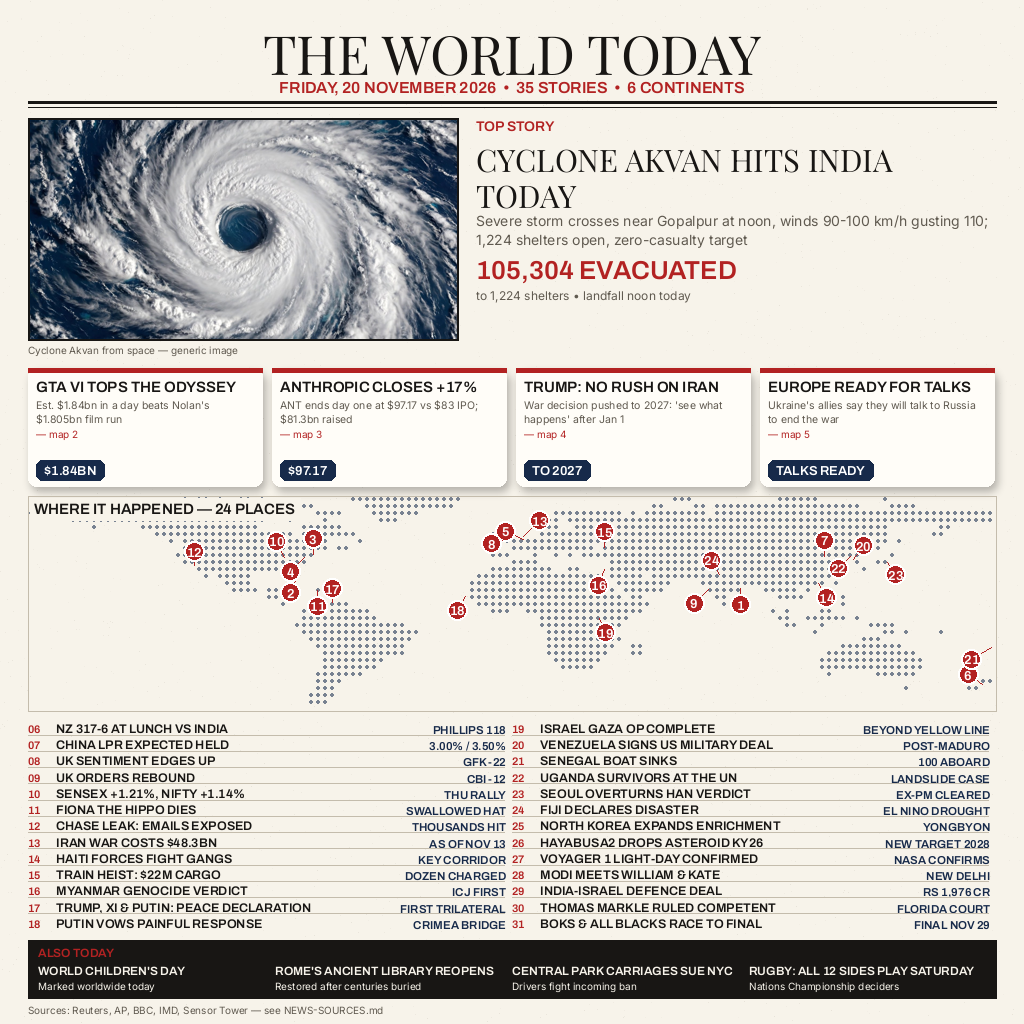
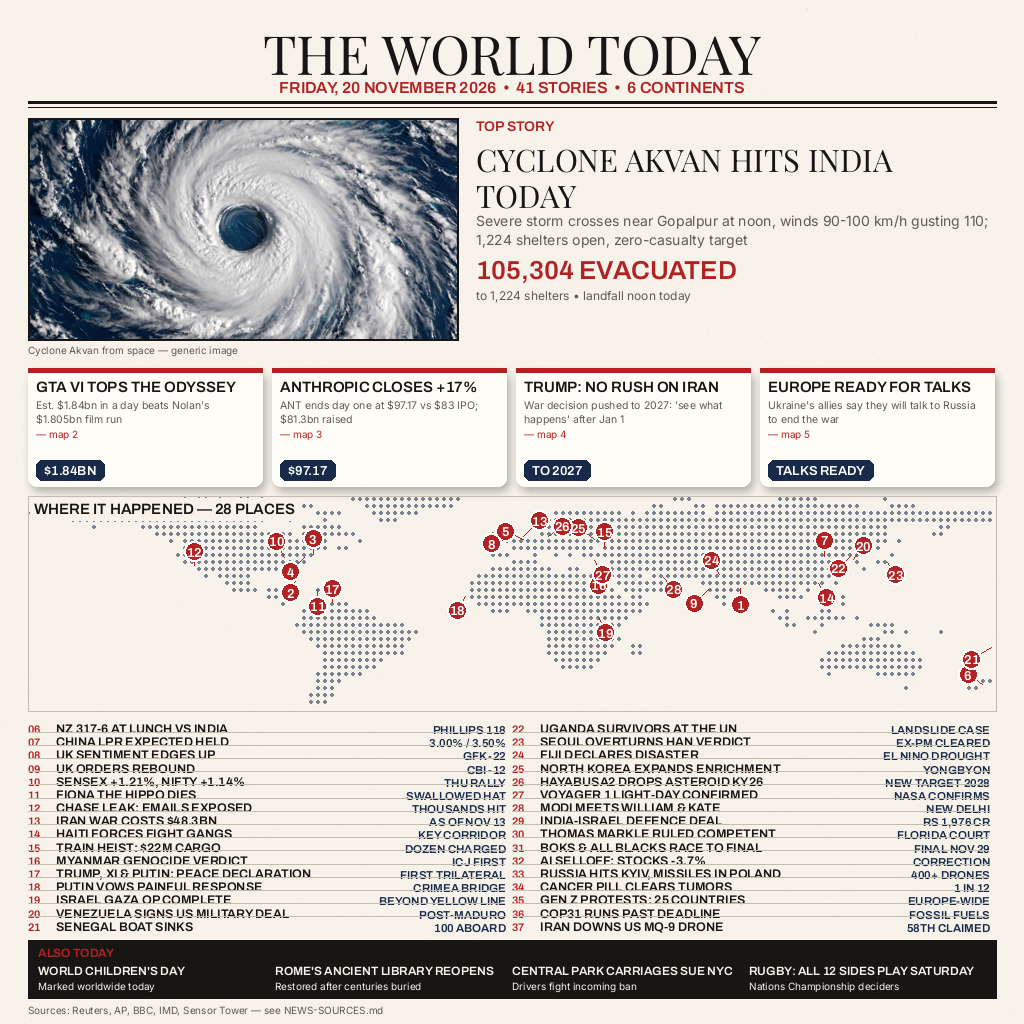
news-image-20261120: refresh 21 Nov, 41 stories (6 fresh: AI selloff, Kyiv/Poland, cancer pill, Gen Z protests, COP31, MQ-9)

diff --git a/stories.py b/stories.py
@@ -13,7 +13,7 @@ Layout of each record:
 """
 
 DATE_LINE = "FRIDAY, 20 NOVEMBER 2026"
-STORY_COUNT = 35
+STORY_COUNT = 41
 CONTINENT_LINE = "6 CONTINENTS"
 
 HERO = (
@@ -83,6 +83,12 @@ LIST_STORIES = [
     ("INDIA-ISRAEL DEFENCE DEAL", "RS 1,976 CR", 24),
     ("THOMAS MARKLE RULED COMPETENT", "FLORIDA COURT", 4),
     ("BOKS & ALL BLACKS RACE TO FINAL", "FINAL NOV 29", 8),
+    ("AI SELLOFF: STOCKS -3.7%", "CORRECTION", 3),
+    ("RUSSIA HITS KYIV, MISSILES IN POLAND", "400+ DRONES", 25),
+    ("CANCER PILL CLEARS TUMORS", "1 IN 12", 8),
+    ("GEN Z PROTESTS: 25 COUNTRIES", "EUROPE-WIDE", 26),
+    ("COP31 RUNS PAST DEADLINE", "FOSSIL FUELS", 27),
+    ("IRAN DOWNS US MQ-9 DRONE", "58TH CLAIMED", 28),
 ]
 
 TICKER = [
@@ -118,4 +124,8 @@ MARKERS = {
     22: (125.8, 39.8, -12, 12),  # Yongbyon — enrichment
     23: (139.7, 35.7, 8, 12),    # Tokyo — Hayabusa2
     24: (77.2, 28.6, -8, -14),   # New Delhi — Modi / defence deal
+    25: (30.5, 50.4, -16, -12),  # Kyiv — Russia strikes / Poland missiles
+    26: (13.4, 52.5, 14, -10),   # Berlin — Gen Z protests
+    27: (30.7, 36.9, 8, 14),     # Antalya — COP31 overtime
+    28: (56.5, 26.5, 10, 12),    # Strait of Hormuz — MQ-9 downed
 }

diff --git a/render.py b/render.py
@@ -171,7 +171,7 @@ def draw_map(draw, box, pal, polys, title=True):
                   fill=(255, 255, 255))
     if title:
         f_t = font("Archivo.ttf", 15)
-        label = "WHERE IT HAPPENED — 24 PLACES"
+        label = f"WHERE IT HAPPENED — {len(S.MARKERS)} PLACES"
         tw = draw.textlength(label, font=f_t)
         # paper patch behind the title so dots/markers never strike through it
         draw.rectangle([x0 + 2, y0 + 2, x0 + tw + 12, y0 + 24],

diff --git a/NEWS-SOURCES.md b/NEWS-SOURCES.md
@@ -93,3 +93,21 @@ renderer.
   depiction of Akvan itself.
 - Map: Natural Earth coastline data (public domain), drawn as a dotted map.
 - Fonts: Playfair Display, Archivo, Inter (OFL).
+
+## Refresh 21 November 2026 (stories 36–41, added before final submit)
+36. AI selloff: US stocks -3.7%, S&P 500 + Dow into correction — One Turn
+    world brief, 21 Nov 2026 (865 headlines scanned).
+37. Russia hits Kyiv, missiles in Poland: 400+ drones + 110 missiles
+    overnight, at least 8 killed in Kyiv, two missiles + suspected drone
+    down in Poland, PM Tusk calls it a deliberate provocation — AP via
+    TFI Online + France 24 / CBS News / El País via One Turn, 21 Nov.
+38. Cancer pill clears tumors: daraxonrasib made pancreatic cancer
+    undetectable on scans in 1 in 12 trial patients — One Turn (London),
+    21 Nov.
+39. Gen Z protests: 25 countries across Europe — One Turn (Berlin),
+    21 Nov.
+40. COP31 runs past deadline: Antalya talks into overtime, nearly 200
+    nations fail to agree on fossil fuels — One Turn, 21 Nov.
+41. Iran downs US MQ-9: IRGC says drone over Strait of Hormuz was the
+    58th American-made MQ-9 brought down — Standard Topic World Archive,
+    21 Nov.
